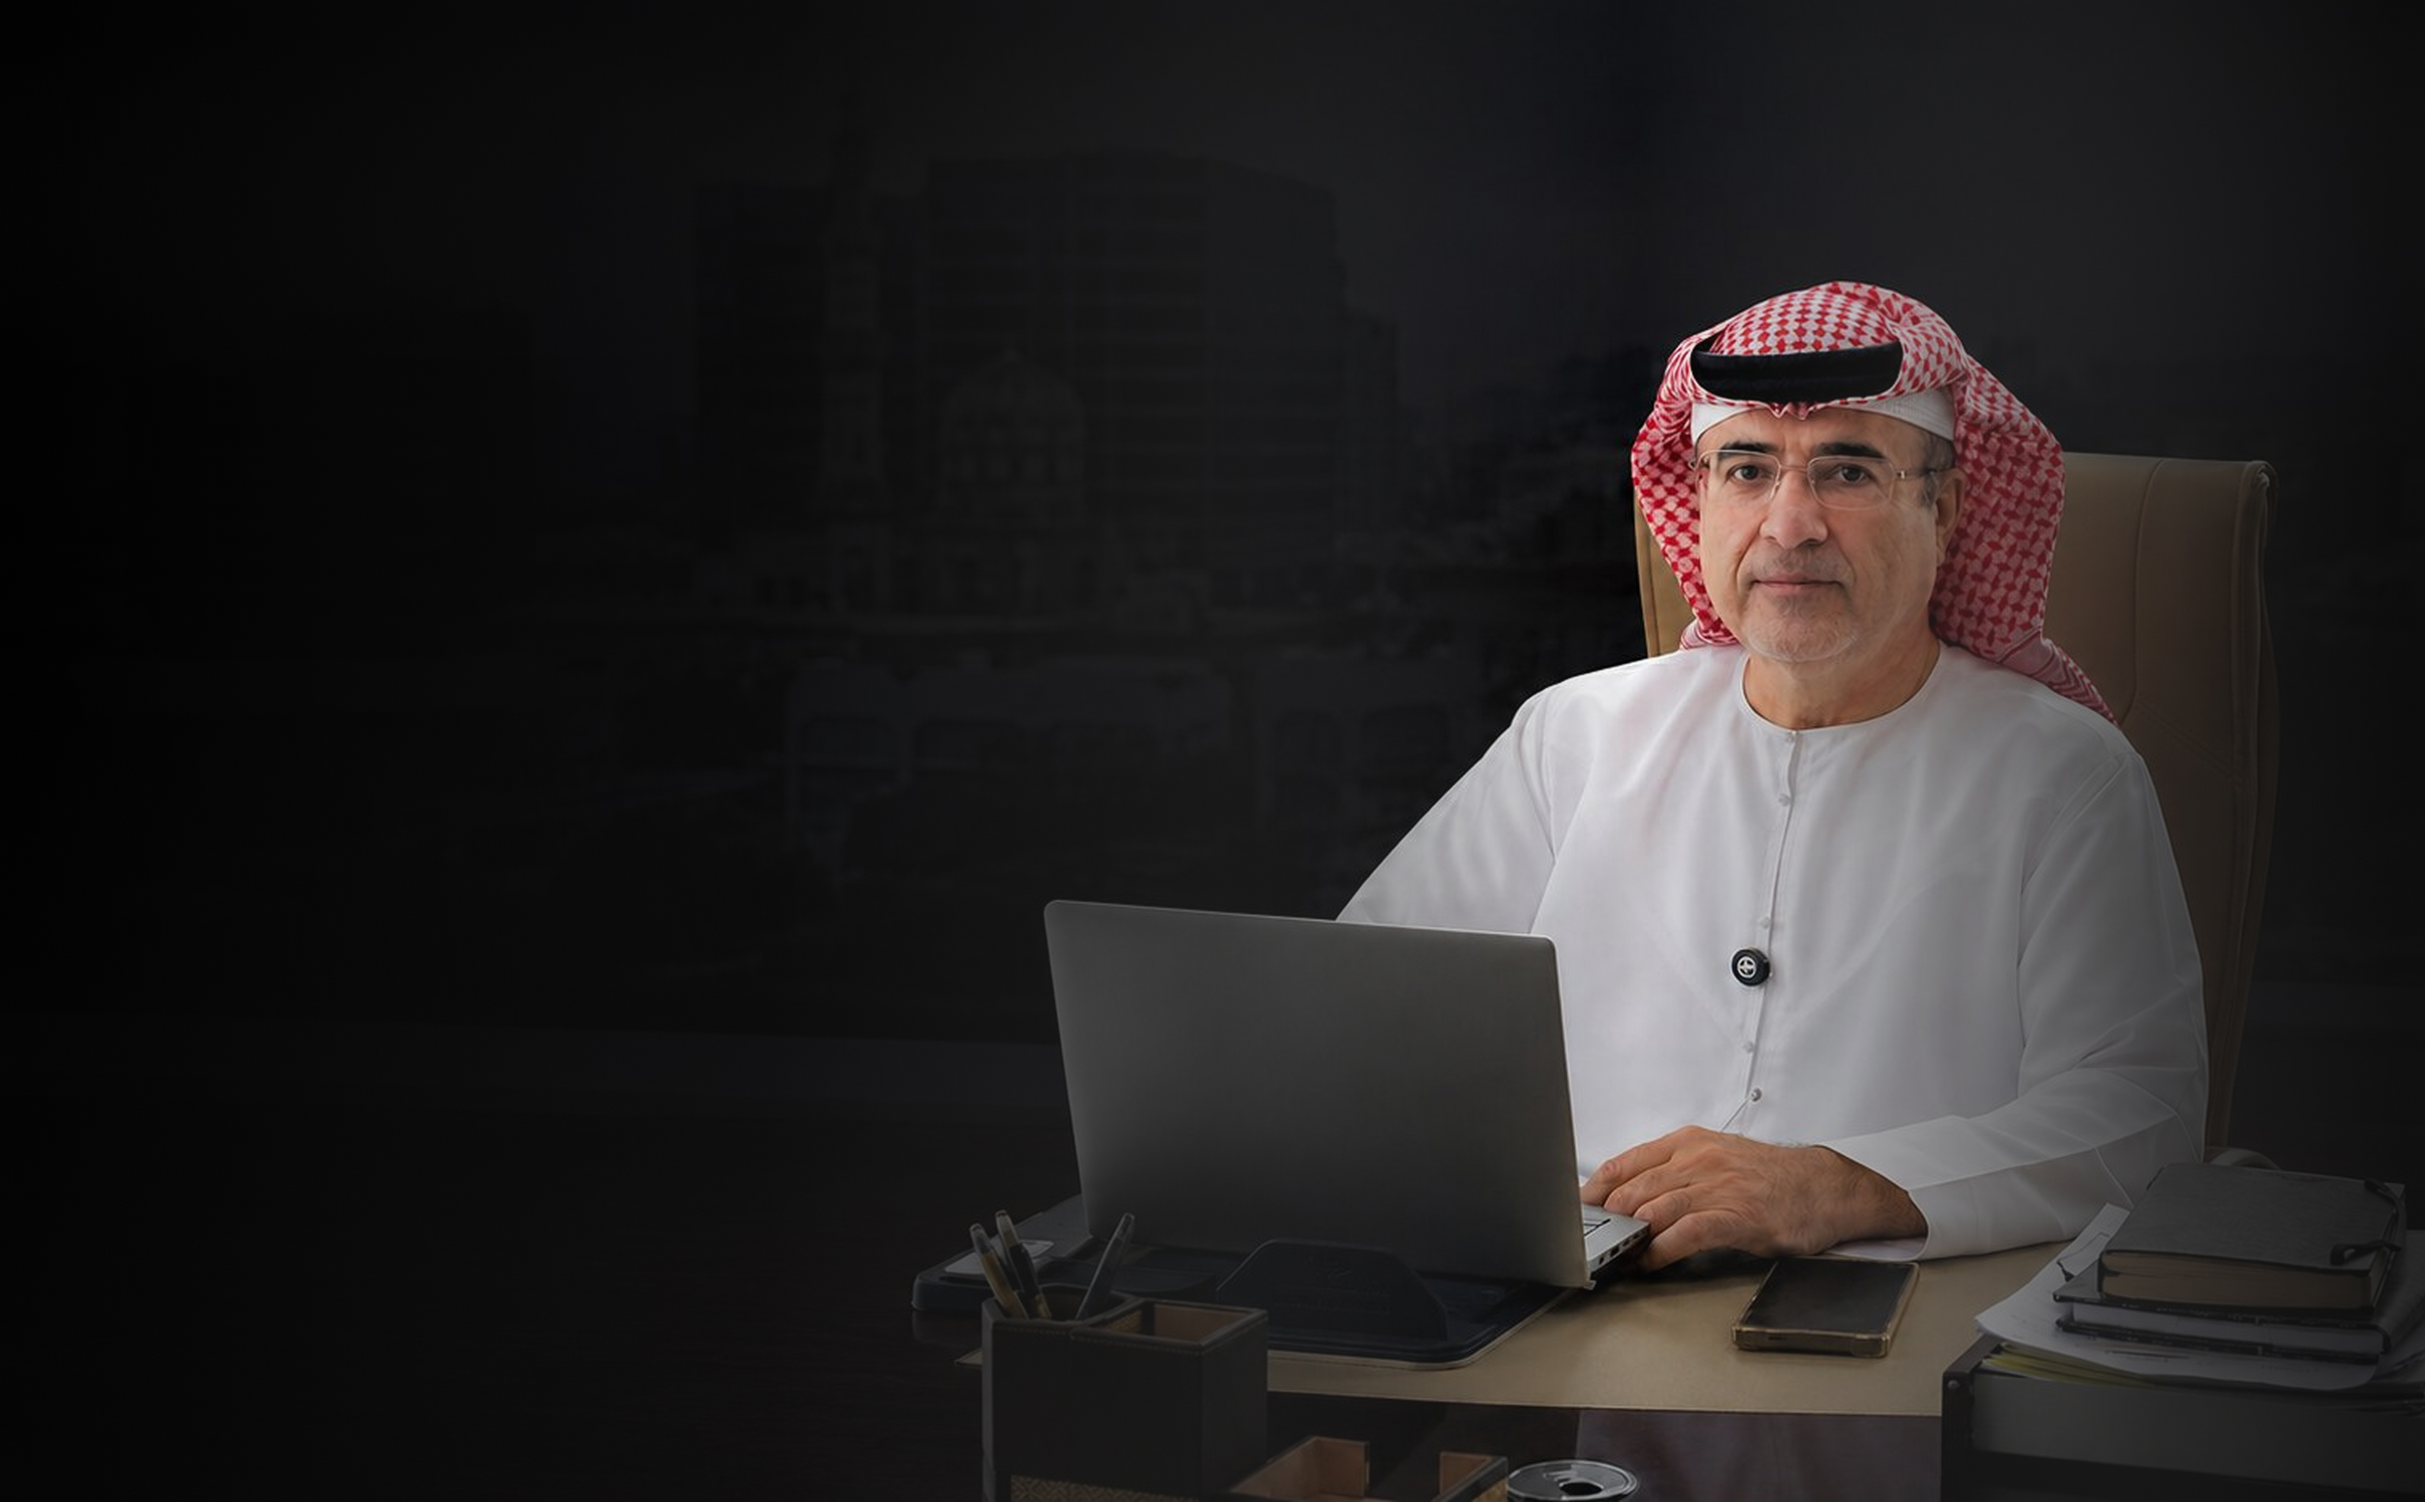
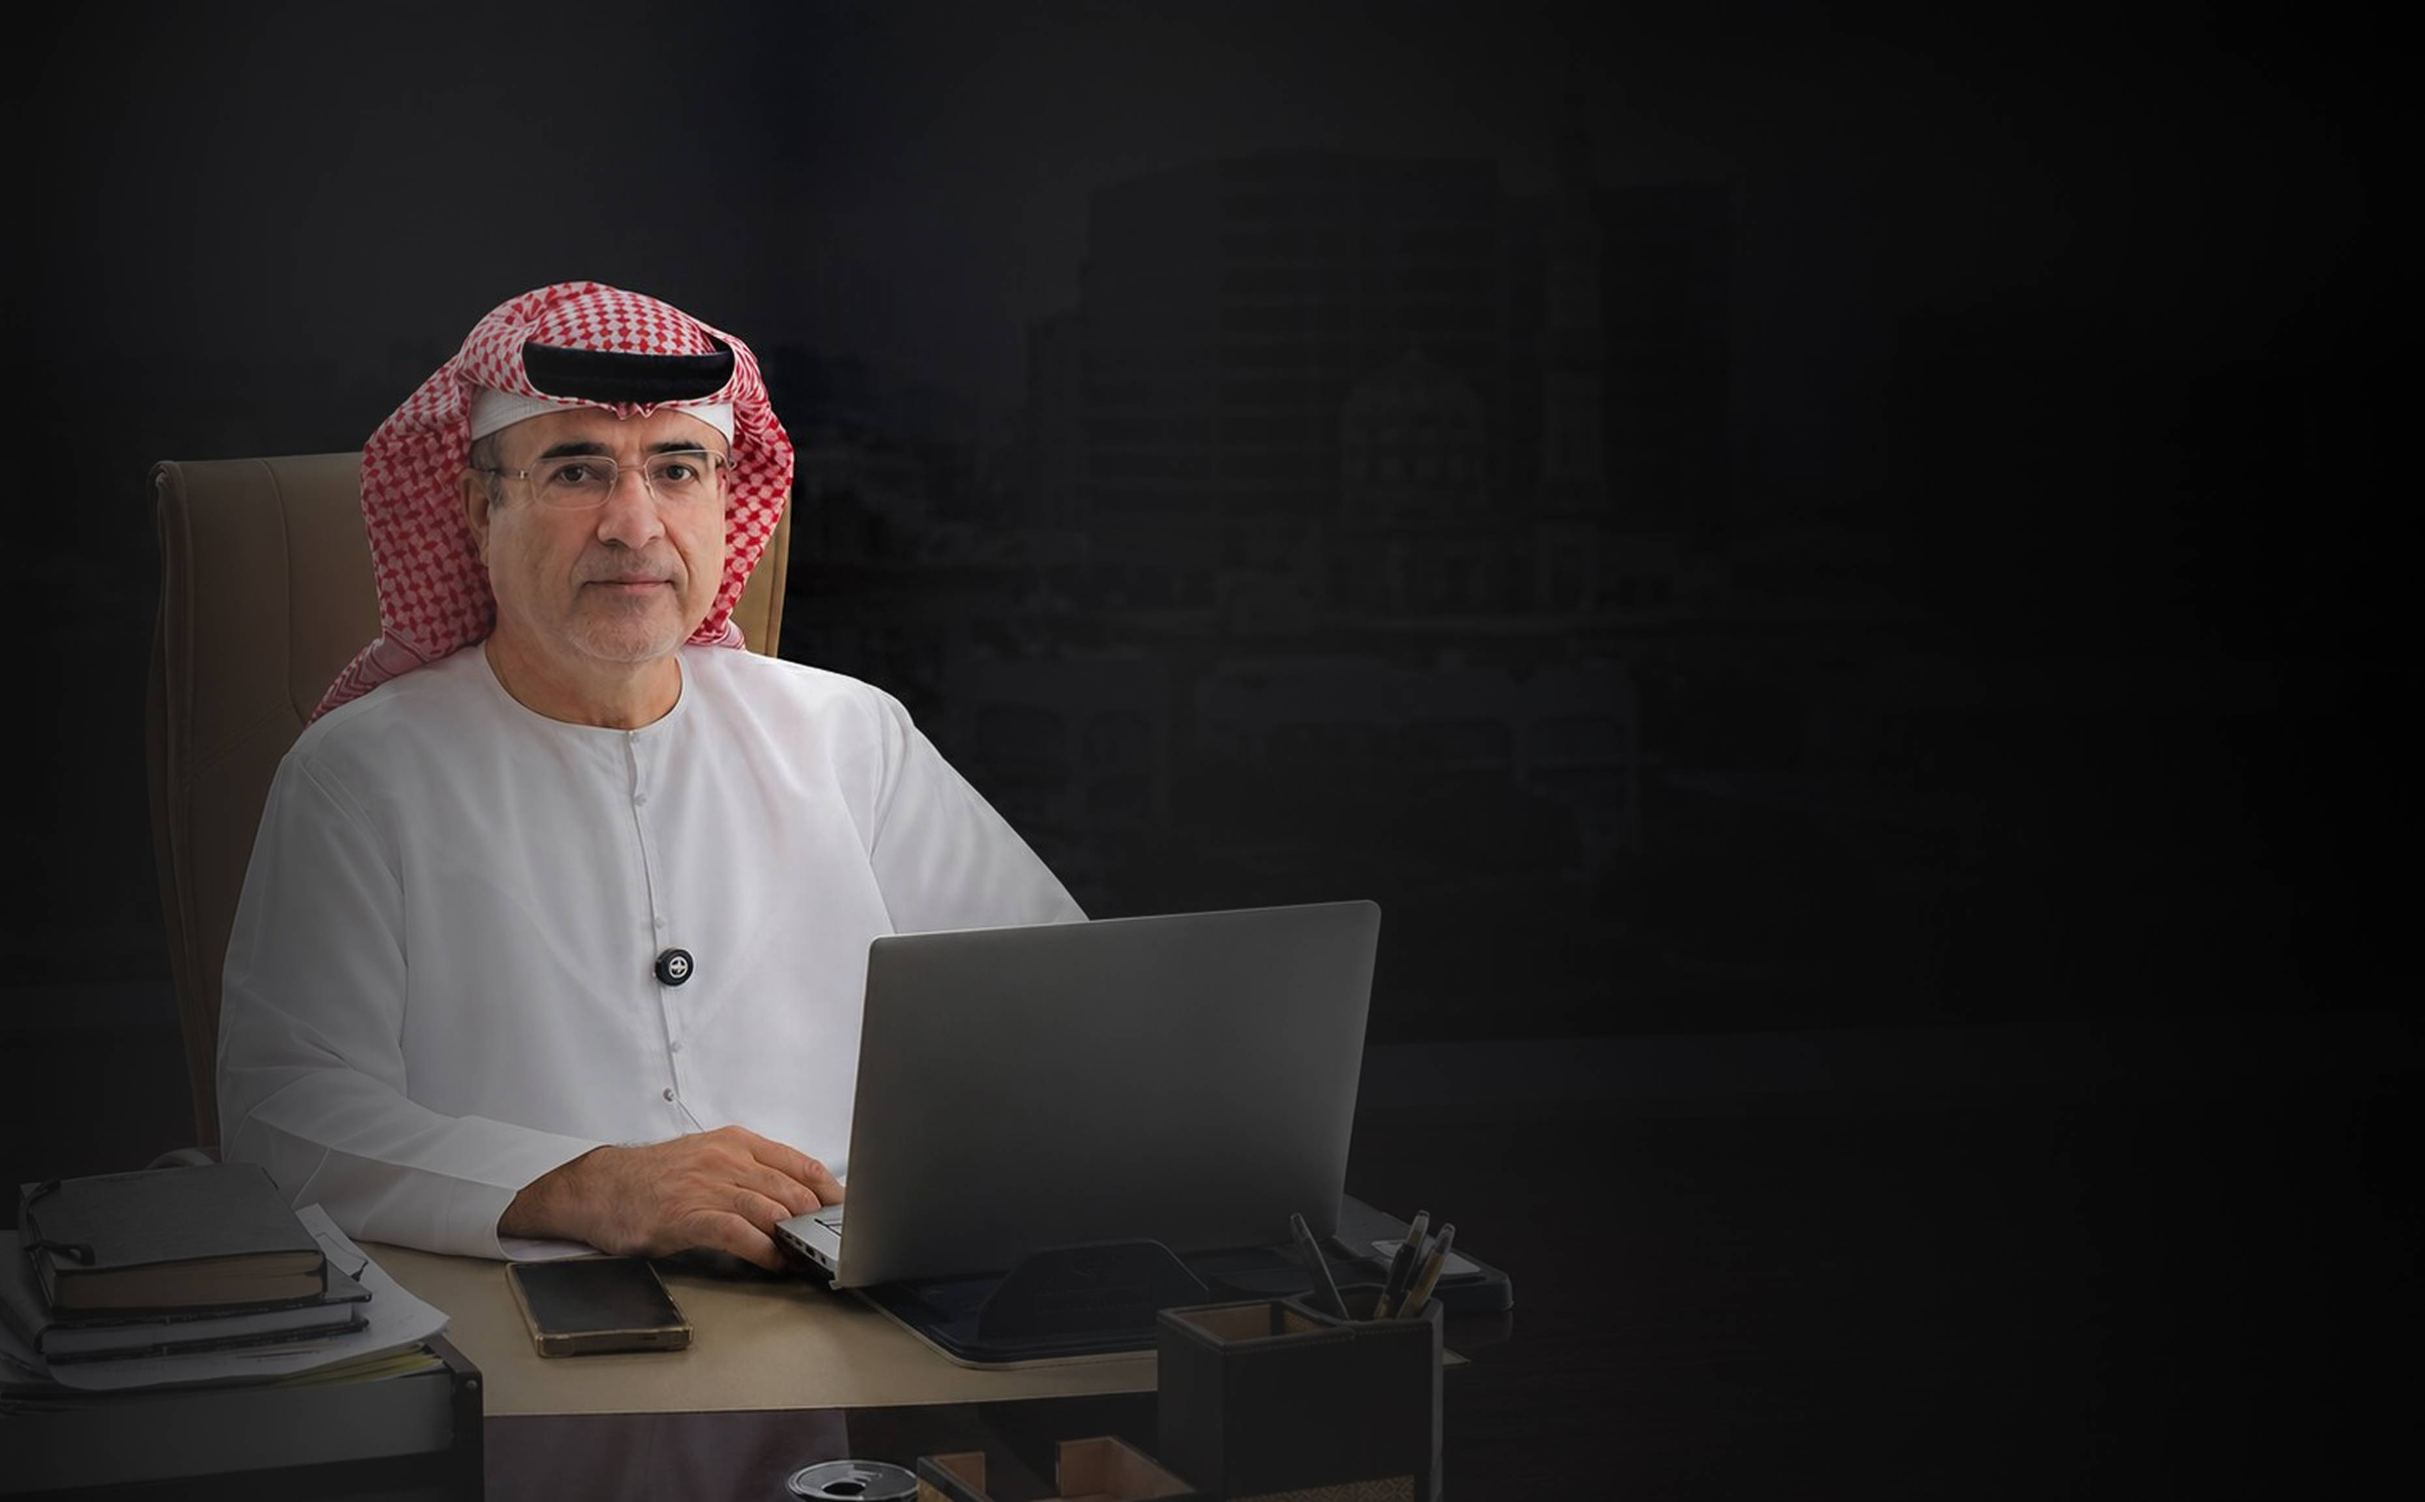
Change hiro background in Persian

diff --git a/src/routes/index.tsx b/src/routes/index.tsx
@@ -9,6 +9,7 @@ import { TrustTimeline } from "@/components/site/TrustTimeline";
 import { Accordion, AccordionContent, AccordionItem, AccordionTrigger } from "@/components/ui/accordion";
 import { cn } from "@/lib/utils";
 import heroSectionBgLtr from "@/assets/Hero-section-ltr.jpg";
+import heroSectionBgRtl from "@/assets/Hero-section-rtl.jpg";
 import heroSectionMobile from "@/assets/Hero-section-mobile.jpg";
 import * as Icons from "lucide-react";
 
@@ -25,8 +26,9 @@ export const Route = createFileRoute("/")({
 });
 
 function Home() {
-  const { t } = useLocale();
+  const { t, locale } = useLocale();
   const waMsg = "Hello, I'd like to book a legal consultation.";
+  const heroSectionBg = locale === "fa" ? heroSectionBgRtl : heroSectionBgLtr;
 
   return (
     <>
@@ -40,7 +42,7 @@ function Home() {
         <div
           aria-hidden
           className="pointer-events-none absolute inset-0 hidden bg-cover bg-center bg-no-repeat lg:block"
-          style={{ backgroundImage: `url(${heroSectionBgLtr})` }}
+          style={{ backgroundImage: `url(${heroSectionBg})` }}
         />
         <div className="container-px relative z-10 mx-auto w-full max-w-7xl py-16 md:py-24">
           <div className="max-w-[min(100%,22rem)] text-start sm:max-w-md md:max-w-3xl">
